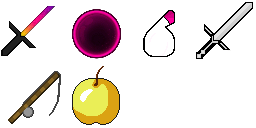
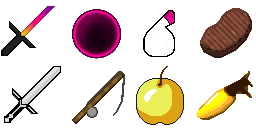
Add steak and golden_carrot textures with fallback paths
- Support alternative texture names (beef_cooked, carrot_golden)
- Fix cover.png to show all 8 textures

🤖 Generated with [Claude Code](https://claude.com/claude-code)

diff --git a/scripts/extract-textures.js b/scripts/extract-textures.js
@@ -5,26 +5,26 @@ const path = require('path');
 
 const KEY_TEXTURES = {
   items: [
-    'assets/minecraft/textures/items/diamond_sword.png',
-    'assets/minecraft/textures/items/ender_pearl.png',
-    'assets/minecraft/textures/items/potion_bottle_splash.png',
-    'assets/minecraft/textures/items/steak.png',
-    'assets/minecraft/textures/items/iron_sword.png',
-    'assets/minecraft/textures/items/fishing_rod_uncast.png',
-    'assets/minecraft/textures/items/apple_golden.png',
-    'assets/minecraft/textures/items/golden_carrot.png',
+    ['assets/minecraft/textures/items/diamond_sword.png'],
+    ['assets/minecraft/textures/items/ender_pearl.png'],
+    ['assets/minecraft/textures/items/potion_bottle_splash.png'],
+    ['assets/minecraft/textures/items/steak.png', 'assets/minecraft/textures/items/beef_cooked.png'],
+    ['assets/minecraft/textures/items/iron_sword.png'],
+    ['assets/minecraft/textures/items/fishing_rod_uncast.png'],
+    ['assets/minecraft/textures/items/apple_golden.png'],
+    ['assets/minecraft/textures/items/golden_carrot.png', 'assets/minecraft/textures/items/carrot_golden.png'],
   ],
   blocks: [
-    'assets/minecraft/textures/blocks/grass_side.png',
-    'assets/minecraft/textures/blocks/stone.png',
-    'assets/minecraft/textures/blocks/wool_colored_white.png',
+    ['assets/minecraft/textures/blocks/grass_side.png'],
+    ['assets/minecraft/textures/blocks/stone.png'],
+    ['assets/minecraft/textures/blocks/wool_colored_white.png'],
   ],
   armor: [
-    'assets/minecraft/textures/models/armor/diamond_layer_1.png',
-    'assets/minecraft/textures/models/armor/diamond_layer_2.png',
+    ['assets/minecraft/textures/models/armor/diamond_layer_1.png'],
+    ['assets/minecraft/textures/models/armor/diamond_layer_2.png'],
   ],
-  gui: ['assets/minecraft/textures/gui/icons.png'],
-  particle: ['assets/minecraft/textures/particle/particles.png'],
+  gui: [['assets/minecraft/textures/gui/icons.png']],
+  particle: [['assets/minecraft/textures/particle/particles.png']],
 };
 
 function cleanMinecraftText(text) {
@@ -79,11 +79,16 @@ async function extractPack(zipPath) {
     fs.writeFileSync(path.join(outputDir, 'icon.png'), iconPng.getData());
   }
 
-  for (const [category, paths] of Object.entries(KEY_TEXTURES)) {
-    for (const texturePath of paths) {
-      const entry = zip.getEntry(texturePath);
+  for (const [category, pathsArray] of Object.entries(KEY_TEXTURES)) {
+    for (const alternatives of pathsArray) {
+      let entry = null;
+      let texturePath = null;
+      for (const alt of alternatives) {
+        entry = zip.getEntry(alt);
+        if (entry) { texturePath = alt; break; }
+      }
       if (entry) {
-        const filename = path.basename(texturePath);
+        const filename = path.basename(alternatives[0]);
         fs.writeFileSync(path.join(outputDir, filename), entry.getData());
         extracted[category].push(filename);
       }
